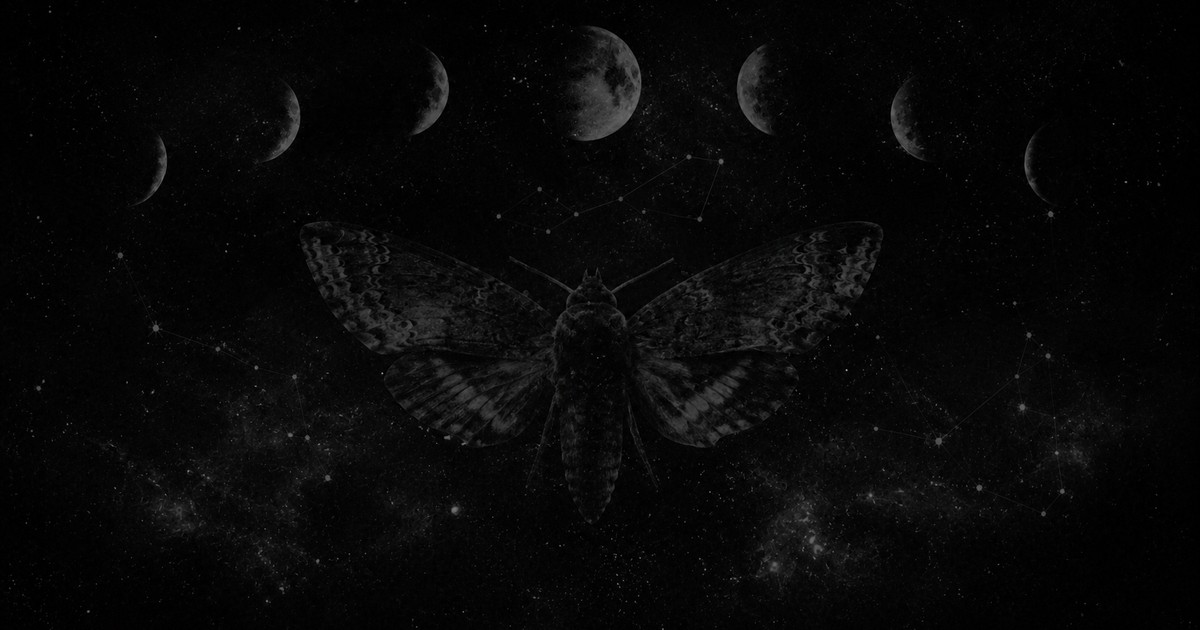
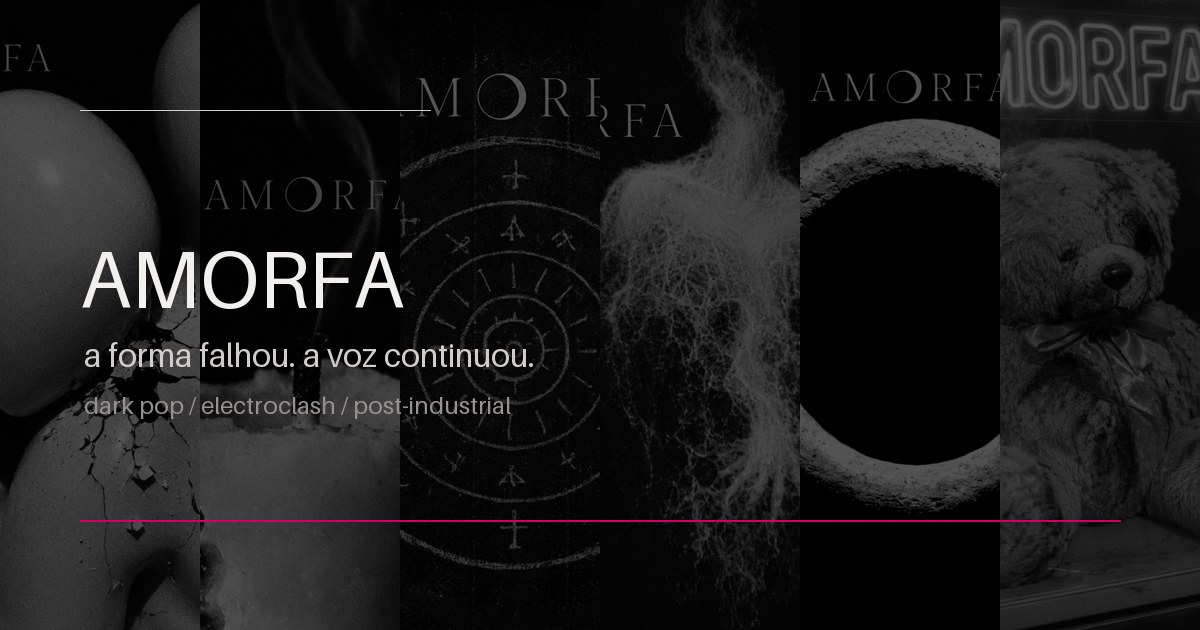
Add files via upload

diff --git a/estratos.html b/estratos.html
@@ -168,8 +168,8 @@
       <nav>
         <ul id="navMenu">
           <li><a href="index.html#inicio">Início</a></li>
-          <li><a href="index.html#ouvir">Ouvir</a></li>
-          <li><a href="index.html#lancamentos">Lançamentos</a></li>
+          <li><a href="ouvir.html">Ouvir</a></li>
+          <li><a href="lancamentos.html">Lançamentos</a></li>
           <li><a href="estratos.html" class="active">Estratos</a></li>
           <li><a href="transmissoes.html">Transmissões</a></li>
           <li><a href="index.html#sobre">Sobre</a></li>

diff --git a/sobre.html b/sobre.html
@@ -200,8 +200,8 @@
       <nav>
         <ul id="navMenu">
           <li><a href="index.html#inicio">Início</a></li>
-          <li><a href="index.html#ouvir">Ouvir</a></li>
-          <li><a href="index.html#lancamentos">Lançamentos</a></li>
+          <li><a href="ouvir.html">Ouvir</a></li>
+          <li><a href="lancamentos.html">Lançamentos</a></li>
           <li><a href="estratos.html">Estratos</a></li>
           <li><a href="transmissoes.html">Transmissões</a></li>
           <li><a href="sobre.html" class="active">Sobre</a></li>

diff --git a/transmissoes.html b/transmissoes.html
@@ -199,8 +199,8 @@
       <nav>
         <ul id="navMenu">
           <li><a href="index.html#inicio">Início</a></li>
-          <li><a href="index.html#ouvir">Ouvir</a></li>
-          <li><a href="index.html#lancamentos">Lançamentos</a></li>
+          <li><a href="ouvir.html">Ouvir</a></li>
+          <li><a href="lancamentos.html">Lançamentos</a></li>
           <li><a href="estratos.html">Estratos</a></li>
           <li><a href="transmissoes.html" class="active">Transmissões</a></li>
           <li><a href="index.html#sobre">Sobre</a></li>